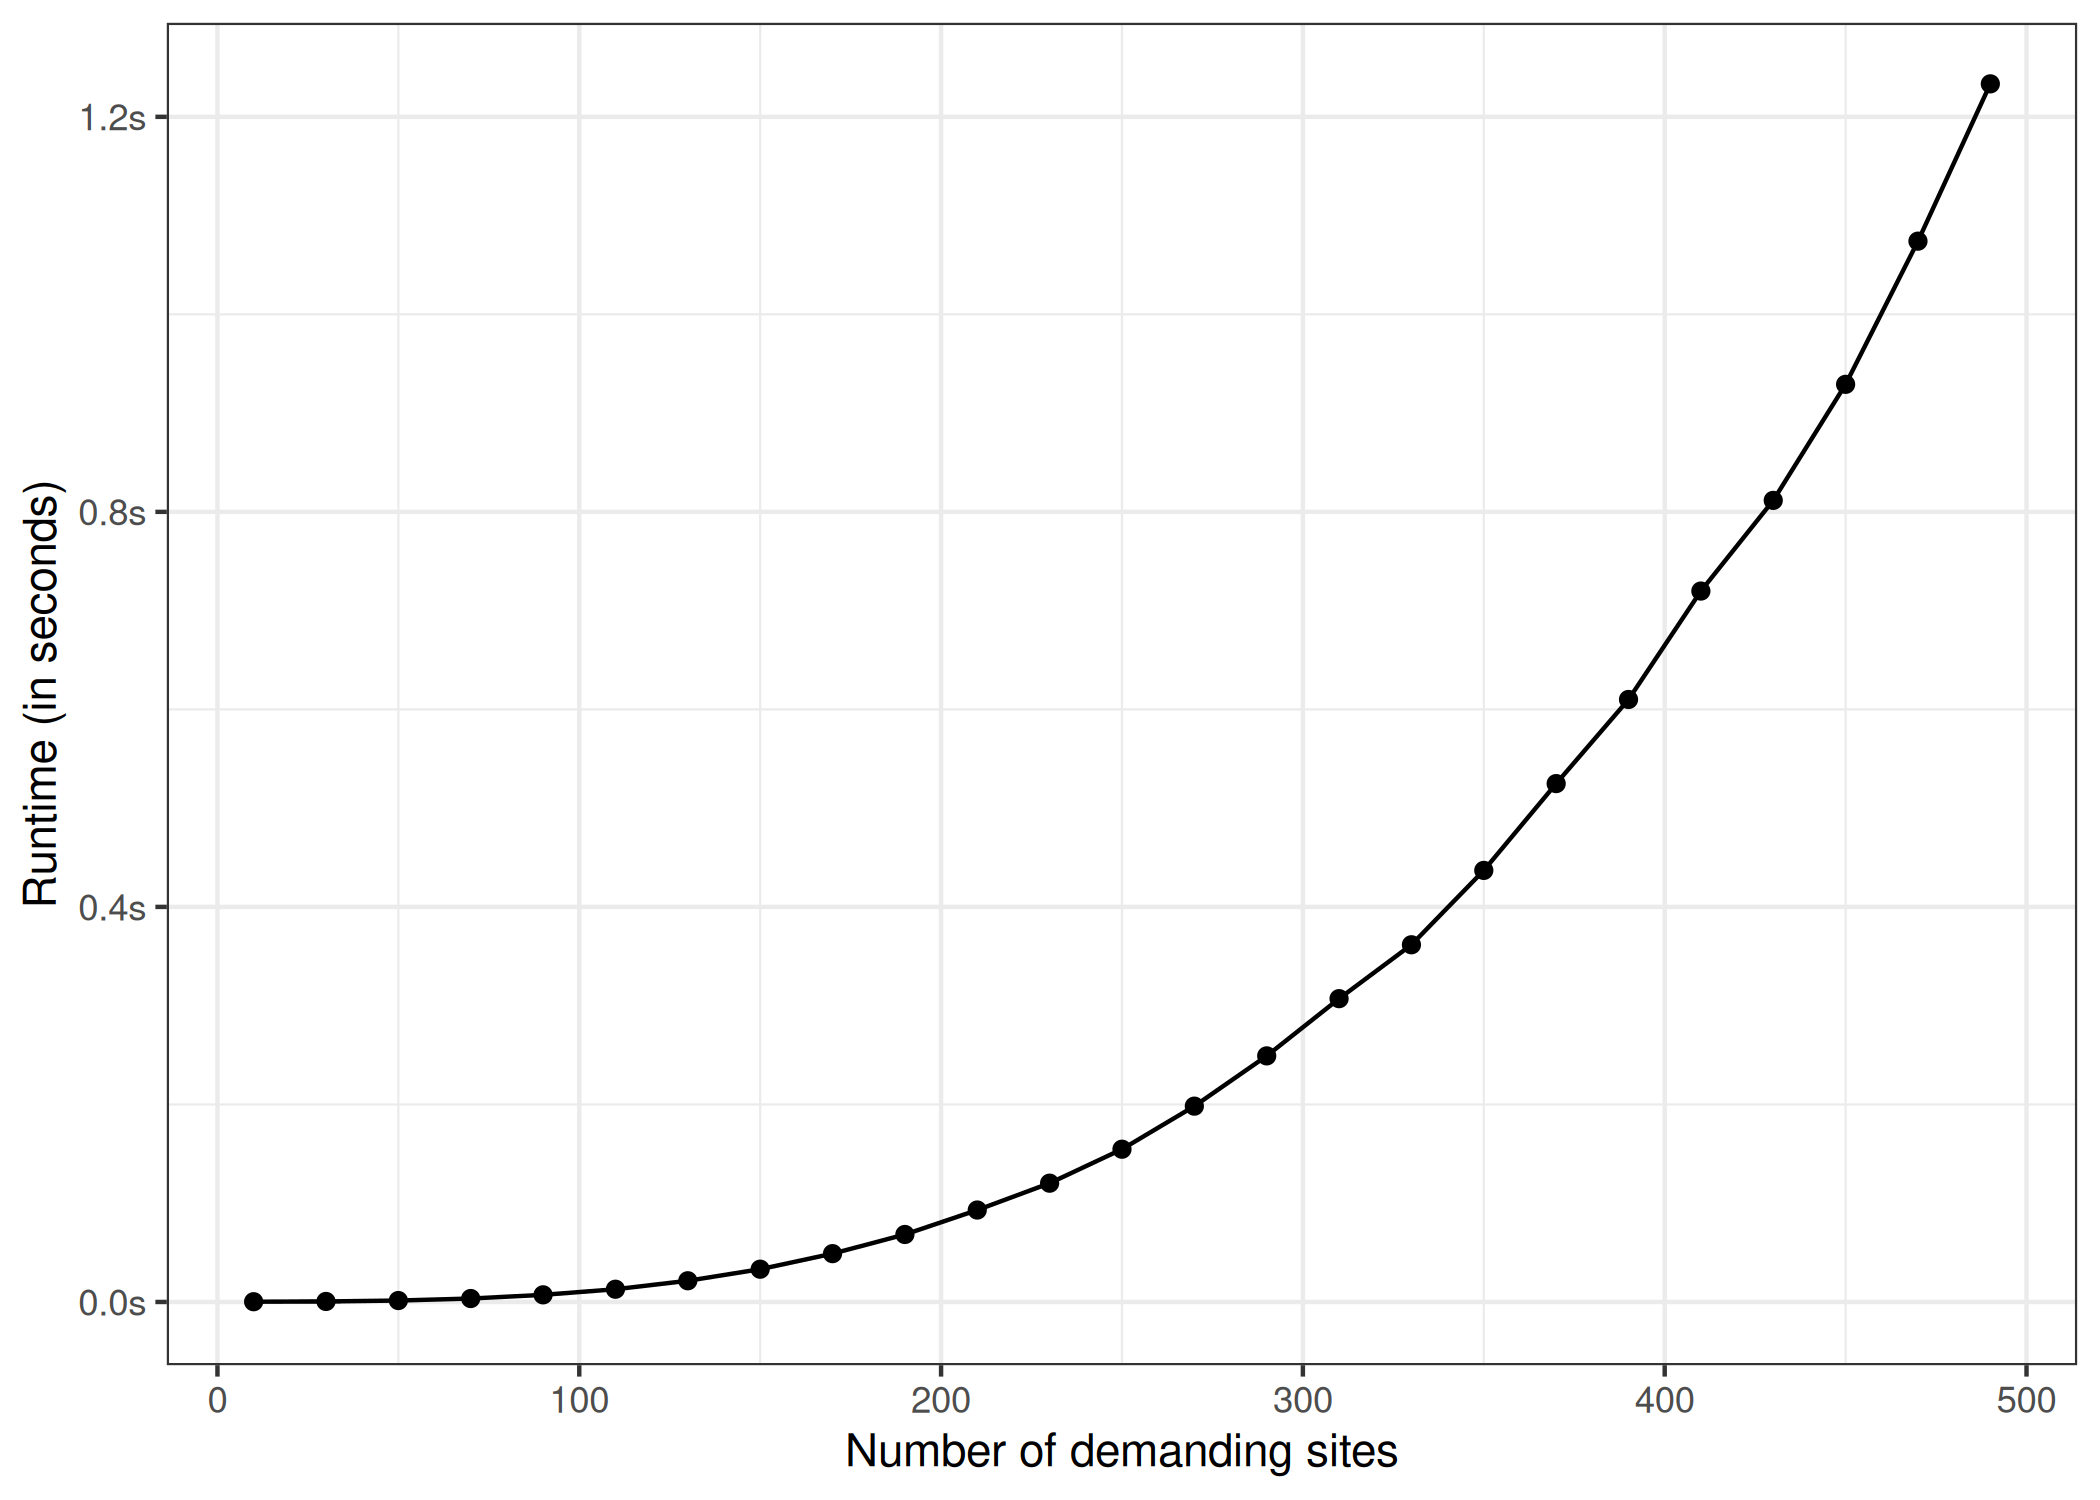
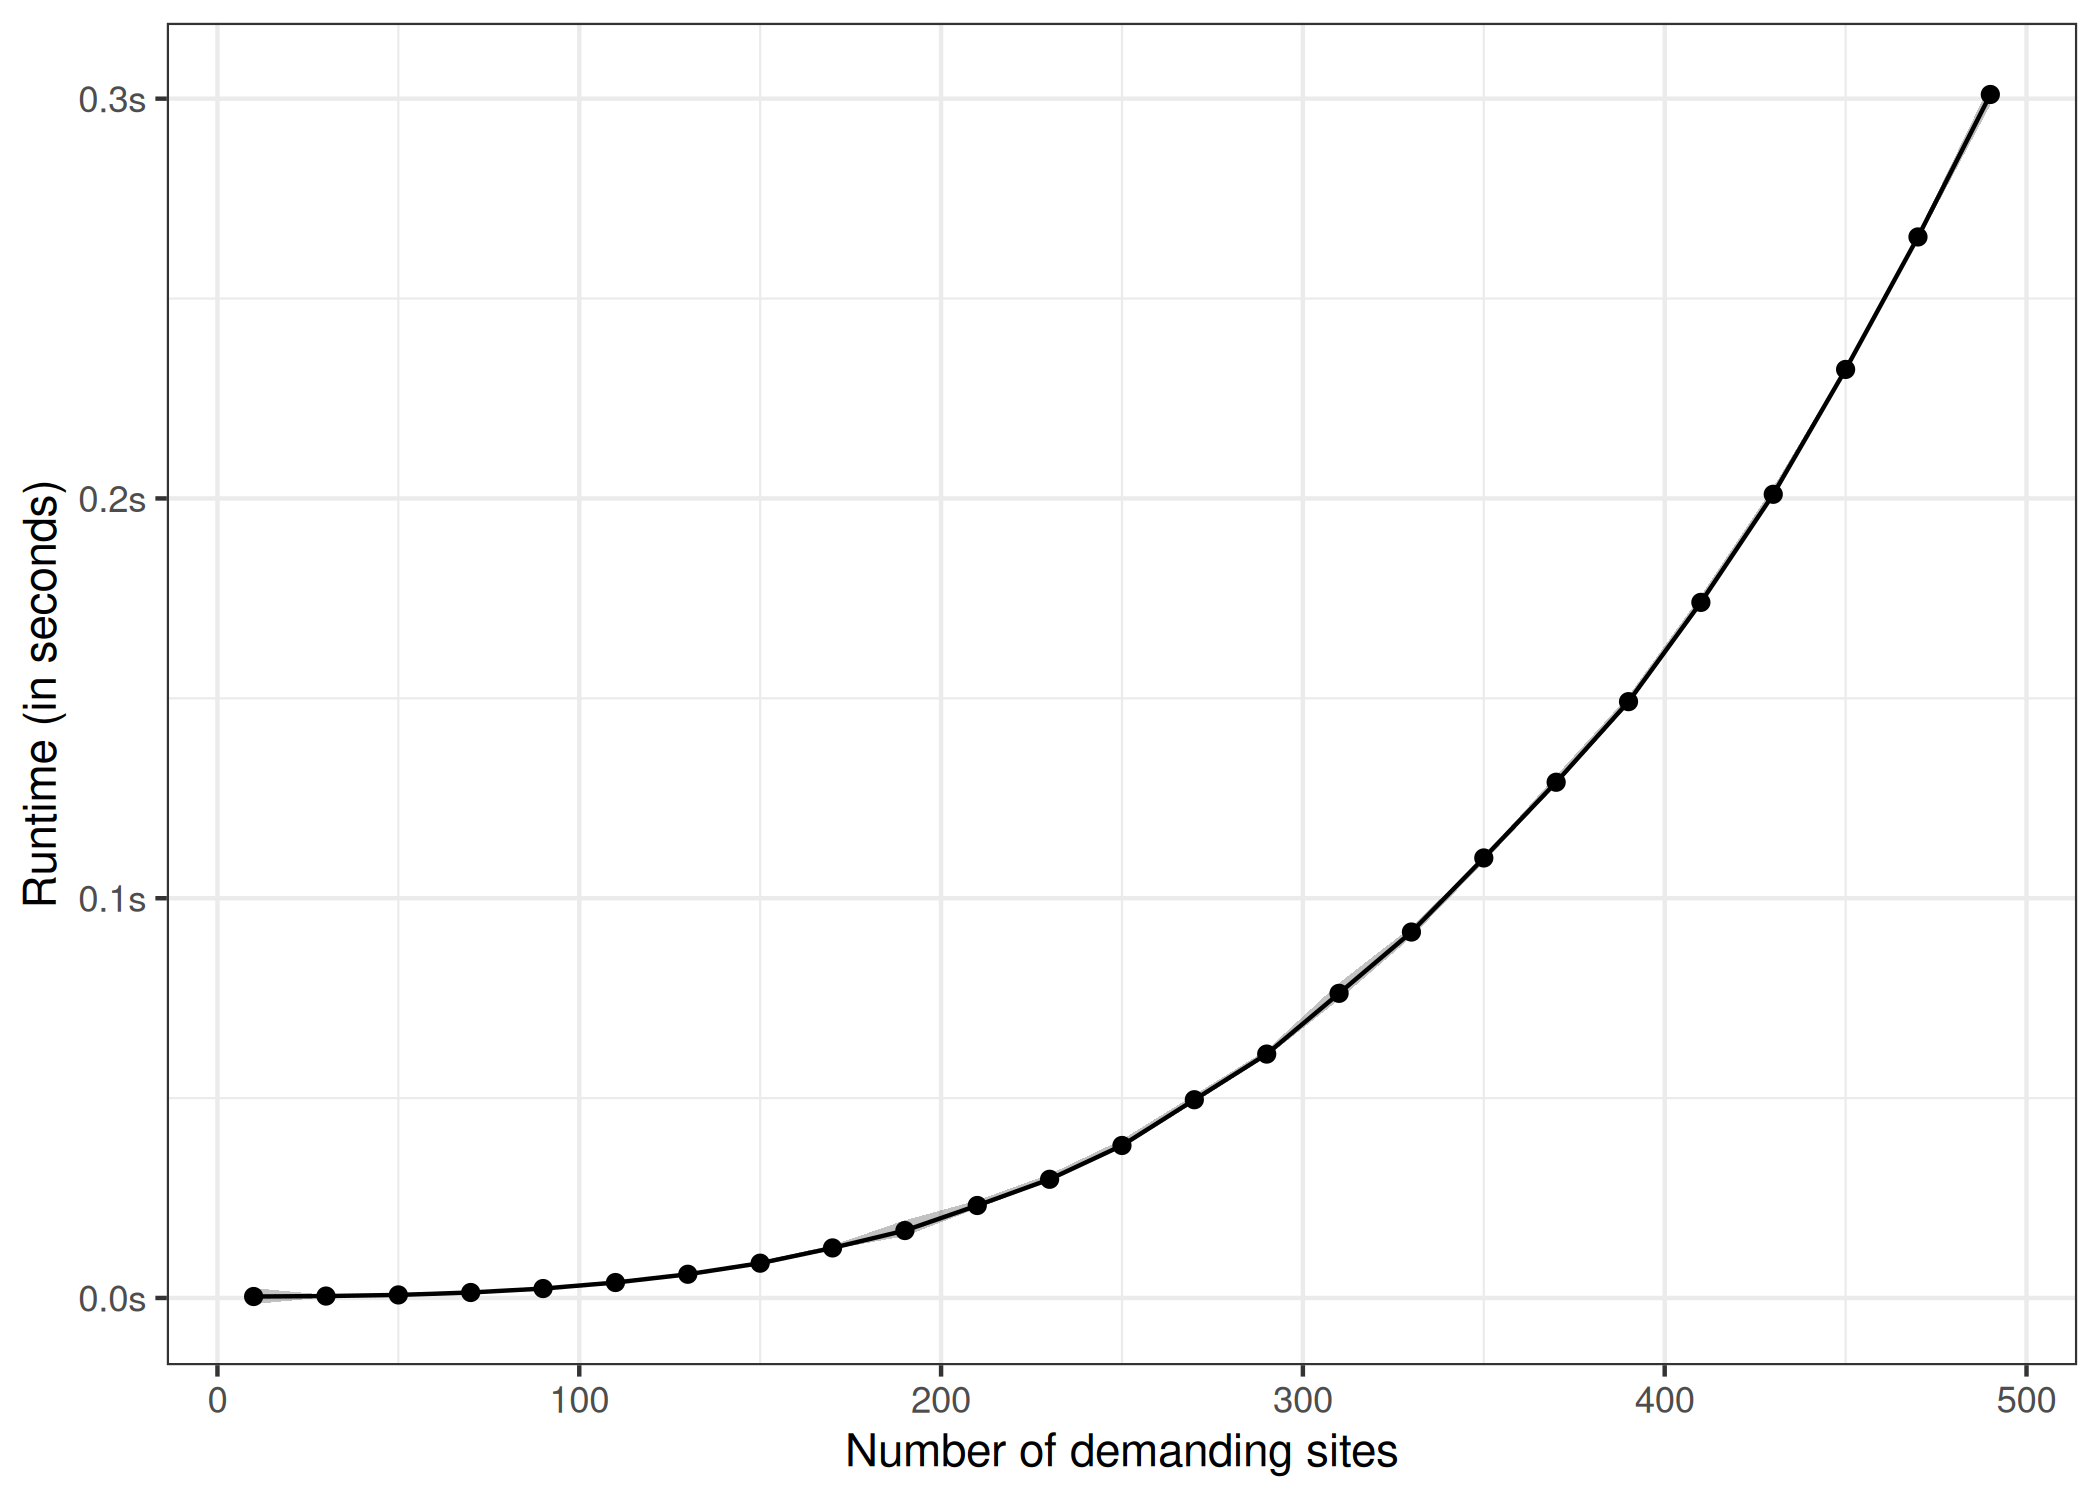
update README

diff --git a/README.md b/README.md
@@ -67,27 +67,62 @@ solution <-
   )
 
 print(solution)
-#>    site run order vehicle     load  distance
-#> 1     0   0     0       0 31.75943 29.029139
-#> 2     1   1     0       0 25.78821 16.929475
-#> 3     2   0     2       0 31.75943 29.029139
-#> 4     3   2     3       1 41.60558 32.192404
-#> 5     4   1     1       0 25.78821 16.929475
-#> 6     5   3     2       1 34.12677 20.601801
-#> 7     6   3     0       1 34.12677 20.601801
-#> 8     7   2     2       1 41.60558 32.192404
-#> 9     8   3     1       1 34.12677 20.601801
-#> 10    9   4     1       0 22.65398 14.329082
-#> 11   10   5     0       0 21.76854 14.231704
-#> 12   11   5     1       0 21.76854 14.231704
-#> 13   12   6     0       0 14.34672  6.043174
-#> 14   13   2     0       1 41.60558 32.192404
-#> 15   14   7     1       0 30.58007 36.895550
-#> 16   15   2     1       1 41.60558 32.192404
-#> 17   16   7     2       0 30.58007 36.895550
-#> 18   17   7     0       0 30.58007 36.895550
-#> 19   18   0     1       0 31.75943 29.029139
-#> 20   19   4     0       0 22.65398 14.329082
+#> $runs
+#>   run vehicle max_load  distance
+#> 1   0       0 31.75943 29.029139
+#> 2   1       0 25.78821 16.929475
+#> 3   2       1 41.60558 32.192404
+#> 4   3       1 34.12677 20.601801
+#> 5   4       0 22.65398 14.329082
+#> 6   5       0 21.76854 14.231704
+#> 7   6       0 14.34672  6.043174
+#> 8   7       0 30.58007 36.895550
+#> 
+#> $sites
+#>    site    demand
+#> 1     0 14.148060
+#> 2     1 14.370754
+#> 3     2  7.861395
+#> 4     3 13.304476
+#> 5     4 11.417455
+#> 6     5 10.190959
+#> 7     6 12.365883
+#> 8     7  6.346666
+#> 9     8 11.569923
+#> 10    9 12.050648
+#> 11   10  9.577418
+#> 12   11 12.191123
+#> 13   12 14.346722
+#> 14   13  7.554288
+#> 15   14  9.622928
+#> 16   15 14.400145
+#> 17   16 14.782264
+#> 18   17  6.174874
+#> 19   18  9.749971
+#> 20   19 10.603327
+#> 
+#> $visits
+#>    run site order      load
+#> 1    0    0     0 17.611366
+#> 2    1    1     0 11.417455
+#> 3    0    2     2  0.000000
+#> 4    2    3     3  0.000000
+#> 5    1    4     1  0.000000
+#> 6    3    5     2  0.000000
+#> 7    3    6     0 21.760882
+#> 8    2    7     2 13.304476
+#> 9    3    8     1 10.190959
+#> 10   4    9     1  0.000000
+#> 11   5   10     0 12.191123
+#> 12   5   11     1  0.000000
+#> 13   6   12     0  0.000000
+#> 14   2   13     0 34.051287
+#> 15   7   14     1 14.782264
+#> 16   2   15     1 19.651142
+#> 17   7   16     2  0.000000
+#> 18   7   17     0 24.405193
+#> 19   0   18     1  7.861395
+#> 20   4   19     0 12.050648
 
 # returns the total cost / distance
 # (the quantity that is minimized by CVRP)
@@ -109,7 +144,7 @@ The demanding site locations are marked with round circles while the
 plot(solution)
 ```
 
-<img src="man/figures/README-example_plot-1.png" width="100%" />
+<img src="man/figures/README-example_plot-1.png" alt="" width="100%" />
 
 ## Runtime Benchmarks
 
@@ -119,9 +154,9 @@ CPU, using the R package [bench](https://bench.r-lib.org/).
 The following graph shows the run time behavior as the number of sites
 $n$ increase. The curve exhibits near-cubic behavior in $n$. For
 $n = 110$ the performance is still relatively reasonable with a run time
-of $\sim 12.9ms$.
+of $\sim 3.87ms$.
 
-<img src="man/figures/README-benchmark_runtime-1.png" width="100%" />
+<img src="man/figures/README-benchmark_runtime-1.png" alt="" width="100%" />
 
 <div id="refs" class="references csl-bib-body hanging-indent"
 entry-spacing="0">
